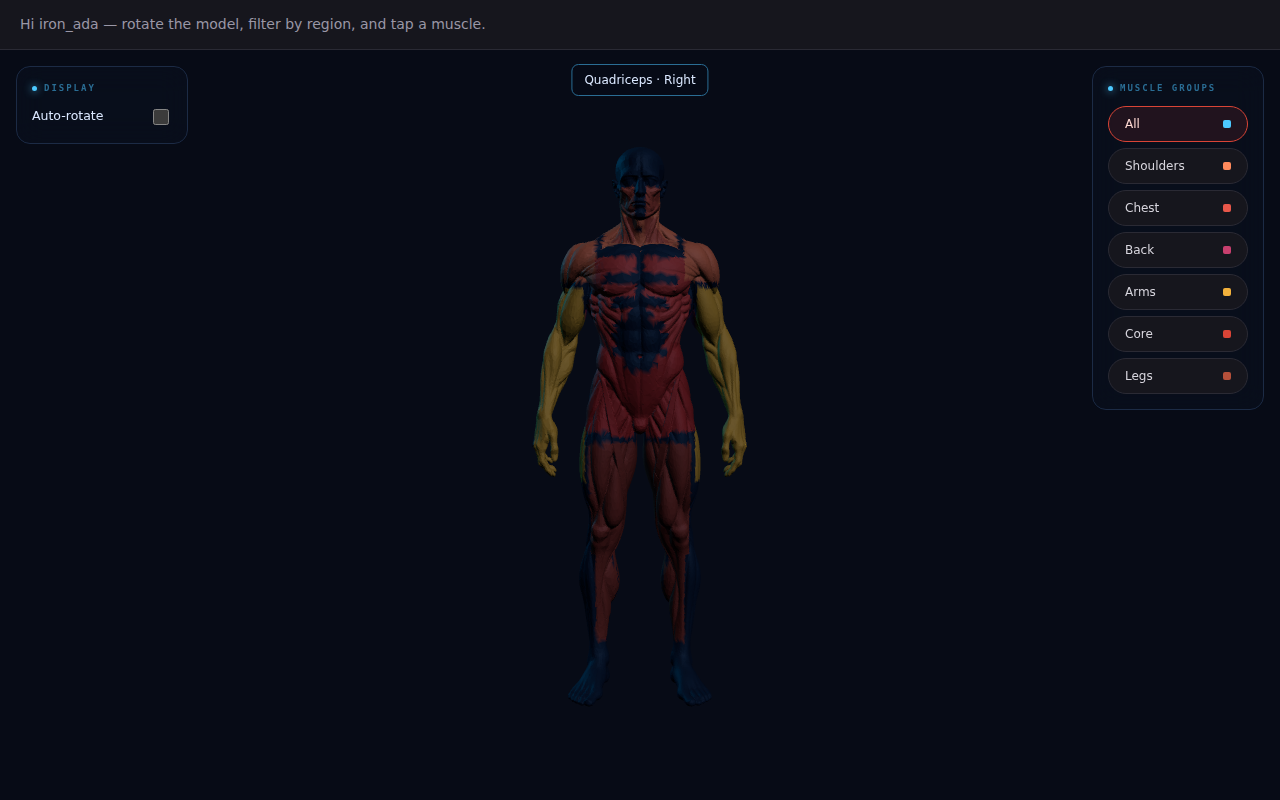
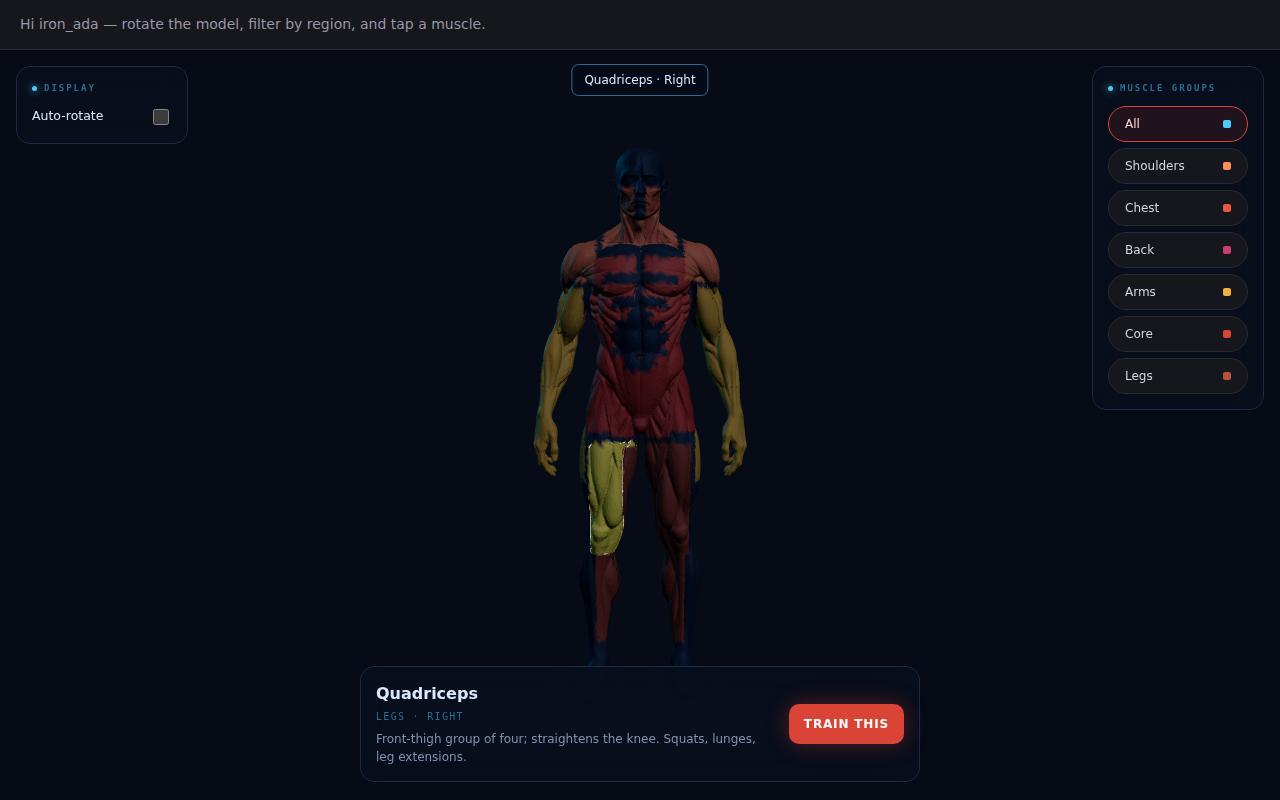
Trace clean muscle-zone outlines instead of a jagged fill edge
The flat per-vertex zone-color fill leaves a hard, jagged edge
wherever a zone's spatial box cuts across the mesh at an angle.
Adds real traced boundary lines instead: every zone gets a subtle
outline always, and the selected zone gets a brighter one on top.

The raw mesh-edge boundary is itself jagged (most boundary vertices
are dangling endpoints or junctions from the mesh's fine surface
detail, not points on one clean chain — confirmed empirically: only
~29% have exactly two neighbors), so it's relaxed with iterative
Laplacian smoothing across the whole boundary graph, not just
chain-interior points, which is what actually rounds it out.

Also fixes a crash found while testing: AnatomyModel's zoneFromEvent
could dereference a still-null mesh ref on the very first pointer
interaction after load (a one-time transient timing case); it's now
treated as a harmless no-op instead of throwing.

Changed region(s): [[0.2812, 0.875, 0.7188, 0.9688], [0.4375, 0.5312, 0.5, 0.6875], [0.2812, 0.8438, 0.375, 0.875]]

diff --git a/apps/web/src/anatomy/zoneMapping.js b/apps/web/src/anatomy/zoneMapping.js
@@ -101,6 +101,116 @@ export function pickZoneAtLocal(px, py, pz, map, localZ) {
   return best;
 }
 
+/**
+ * Trace clean boundary lines between muscle zones (and between a zone and
+ * unzoned surface), instead of relying on the jagged edge the flat
+ * per-vertex zone fill leaves wherever a zone's spatial box happens to cut
+ * across the mesh at an angle.
+ *
+ * A mesh edge is a "boundary" edge when its two endpoints fall in different
+ * zones (including zoned vs. unzoned). The raw boundary is just as jagged as
+ * the mesh's own vertex spacing, so it's smoothed afterward: boundary
+ * vertices form chains (a vertex with exactly two boundary-neighbors is an
+ * interior chain point), and each chain point is iteratively pulled toward
+ * its neighbors' midpoint. Junctions — one or three-plus neighbors, e.g.
+ * where three zones meet — are left as fixed anchors so chains don't detach
+ * from each other or from the surface.
+ *
+ * @returns { all: Float32Array, byZone: {id: Float32Array} } — each is a
+ * flat [x,y,z, x,y,z, ...] position list for a THREE.LineSegments geometry.
+ */
+export function computeZoneBoundaryEdges(geometry, baked, map, liftEps = 0, smoothIterations = 12) {
+  const index = geometry.index;
+  const position = geometry.attributes.position;
+  const normal = geometry.attributes.normal;
+  const vertZone = baked.vertZone;
+  const Z = map.zones;
+
+  // Nudge a point slightly along its vertex normal so the line sits just
+  // above the surface instead of z-fighting with the mesh it traces.
+  function liftedPoint(i) {
+    const x = position.getX(i), y = position.getY(i), z = position.getZ(i);
+    if (!normal || !liftEps) return [x, y, z];
+    return [x + normal.getX(i) * liftEps, y + normal.getY(i) * liftEps, z + normal.getZ(i) * liftEps];
+  }
+
+  // Phase 1: find every boundary edge and which zone(s) it borders.
+  const seen = new Set();
+  const edges = []; // [a, b] mesh vertex indices
+  const edgeZoneIds = []; // parallel: [zoneIdOrNull, zoneIdOrNull]
+  const boundaryVerts = new Set();
+  const adjacency = new Map(); // vertex index -> Set of boundary-neighbor indices
+
+  function link(a, b) {
+    if (!adjacency.has(a)) adjacency.set(a, new Set());
+    adjacency.get(a).add(b);
+  }
+
+  function addEdge(a, b) {
+    const za = vertZone[a], zb = vertZone[b];
+    if (za === zb) return; // interior edge, not a zone boundary
+    const key = a < b ? a * 1e7 + b : b * 1e7 + a;
+    if (seen.has(key)) return;
+    seen.add(key);
+    edges.push([a, b]);
+    edgeZoneIds.push([za >= 0 ? Z[za].id : null, zb >= 0 ? Z[zb].id : null]);
+    boundaryVerts.add(a);
+    boundaryVerts.add(b);
+    link(a, b);
+    link(b, a);
+  }
+
+  if (index) {
+    const idx = index.array;
+    for (let i = 0; i < idx.length; i += 3) {
+      const a = idx[i], b = idx[i + 1], c = idx[i + 2];
+      addEdge(a, b); addEdge(b, c); addEdge(c, a);
+    }
+  } else {
+    for (let i = 0; i < position.count; i += 3) {
+      addEdge(i, i + 1); addEdge(i + 1, i + 2); addEdge(i + 2, i);
+    }
+  }
+
+  // Phase 2: smooth boundary-vertex positions along their local chain.
+  let smoothed = new Map();
+  for (const v of boundaryVerts) smoothed.set(v, liftedPoint(v));
+  for (let iter = 0; iter < smoothIterations; iter++) {
+    const next = new Map();
+    for (const v of boundaryVerts) {
+      const neighbors = adjacency.get(v);
+      let mx = 0, my = 0, mz = 0;
+      for (const n of neighbors) {
+        const p = smoothed.get(n);
+        mx += p[0]; my += p[1]; mz += p[2];
+      }
+      const k = neighbors.size;
+      const p = smoothed.get(v);
+      next.set(v, [
+        p[0] * 0.5 + (mx / k) * 0.5,
+        p[1] * 0.5 + (my / k) * 0.5,
+        p[2] * 0.5 + (mz / k) * 0.5,
+      ]);
+    }
+    smoothed = next;
+  }
+
+  // Phase 3: materialize segments from the smoothed positions.
+  const allPts = [];
+  const byZonePts = {};
+  edges.forEach(([a, b], i) => {
+    const pts = [...smoothed.get(a), ...smoothed.get(b)];
+    allPts.push(...pts);
+    const [zaId, zbId] = edgeZoneIds[i];
+    if (zaId) (byZonePts[zaId] ??= []).push(...pts);
+    if (zbId) (byZonePts[zbId] ??= []).push(...pts);
+  });
+
+  const byZone = {};
+  for (const id in byZonePts) byZone[id] = new Float32Array(byZonePts[id]);
+  return { all: new Float32Array(allPts), byZone };
+}
+
 /** Convert a normalized center back to native coords (for 3D labels / boxes). */
 export function normToNative(nx, ny, nz, map) {
   const { min, max, size } = map.fit_bounds;

diff --git a/apps/web/src/anatomy/AnatomyModel.jsx b/apps/web/src/anatomy/AnatomyModel.jsx
@@ -1,12 +1,16 @@
 import React, { useRef, useMemo, useEffect, useLayoutEffect } from 'react';
 import { useGLTF } from '@react-three/drei';
 import * as THREE from 'three';
-import { bakeVertexZones, pickZoneAtLocal, REGION_COLORS } from './zoneMapping';
+import { bakeVertexZones, computeZoneBoundaryEdges, pickZoneAtLocal, REGION_COLORS } from './zoneMapping';
 
 const BASE = new THREE.Color('#8a5347');
 const NEUTRAL = new THREE.Color('#33404f');
 const DIM = new THREE.Color('#2a2320');
 const HILITE = new THREE.Color('#ffd257');
+
+// How far outline lines are lifted off the surface (native units) to avoid
+// z-fighting with the mesh they trace.
+const OUTLINE_LIFT = 0.0015;
 
 /**
  * AnatomyModel — loads the fused GLB, bakes muscle zones, and handles
@@ -40,6 +44,15 @@ export default function AnatomyModel({ url, map, selectedId, region = 'all', onS
   // Bake zones once per geometry (heavy loop, memoized).
   const baked = useMemo(() => bakeVertexZones(geometry, map), [geometry, map]);
 
+  // Clean traced lines along zone boundaries, instead of the jagged edge the
+  // flat vertex-color fill leaves. Computed once; selection just swaps which
+  // precomputed per-zone subset gets the brighter emphasis pass.
+  const boundary = useMemo(
+    () => computeZoneBoundaryEdges(geometry, baked, map, OUTLINE_LIFT),
+    [geometry, baked, map]
+  );
+  const selectedBoundary = selectedId ? boundary.byZone[selectedId] : null;
+
   // Center the mesh at the origin (native scale preserved for correct picking).
   const offset = useMemo(() => {
     geometry.computeBoundingBox();
@@ -72,7 +85,10 @@ export default function AnatomyModel({ url, map, selectedId, region = 'all', onS
   useLayoutEffect(paint, [selectedId, region, baked, geometry, map]);
 
   // Resolve a pointer event to a muscle zone using the native-space hit point.
+  // meshRef can be transiently null between an outline-triggered re-render
+  // and the mesh's own ref commit; treat that as "no zone" rather than throw.
   const zoneFromEvent = (e) => {
+    if (!meshRef.current) return null;
     const lp = meshRef.current.worldToLocal(e.point.clone());
     return pickZoneAtLocal(lp.x, lp.y, lp.z, map, baked.localZ);
   };
@@ -88,15 +104,33 @@ export default function AnatomyModel({ url, map, selectedId, region = 'all', onS
 
   useEffect(() => () => useGLTF.clear?.(url), [url]);
 
+  const groupPosition = [-offset.x, -offset.y, -offset.z];
+
   return (
-    <mesh
-      ref={meshRef}
-      geometry={geometry}
-      material={material}
-      position={[-offset.x, -offset.y, -offset.z]}
-      onPointerMove={handleMove}
-      onPointerOut={handleOut}
-      onClick={handleClick}
-    />
+    <group position={groupPosition}>
+      <mesh
+        ref={meshRef}
+        geometry={geometry}
+        material={material}
+        onPointerMove={handleMove}
+        onPointerOut={handleOut}
+        onClick={handleClick}
+      />
+      <Outline points={boundary.all} color="#050708" opacity={0.45} />
+      {selectedBoundary && <Outline points={selectedBoundary} color="#fff4d6" opacity={0.95} />}
+    </group>
+  );
+}
+
+/** Thin traced line along a flat [x,y,z, x,y,z, ...] segment list. */
+function Outline({ points, color, opacity }) {
+  if (!points || points.length === 0) return null;
+  return (
+    <lineSegments raycast={() => null}>
+      <bufferGeometry>
+        <bufferAttribute attach="attributes-position" args={[points, 3]} />
+      </bufferGeometry>
+      <lineBasicMaterial color={color} transparent opacity={opacity} depthWrite={false} />
+    </lineSegments>
   );
 }
